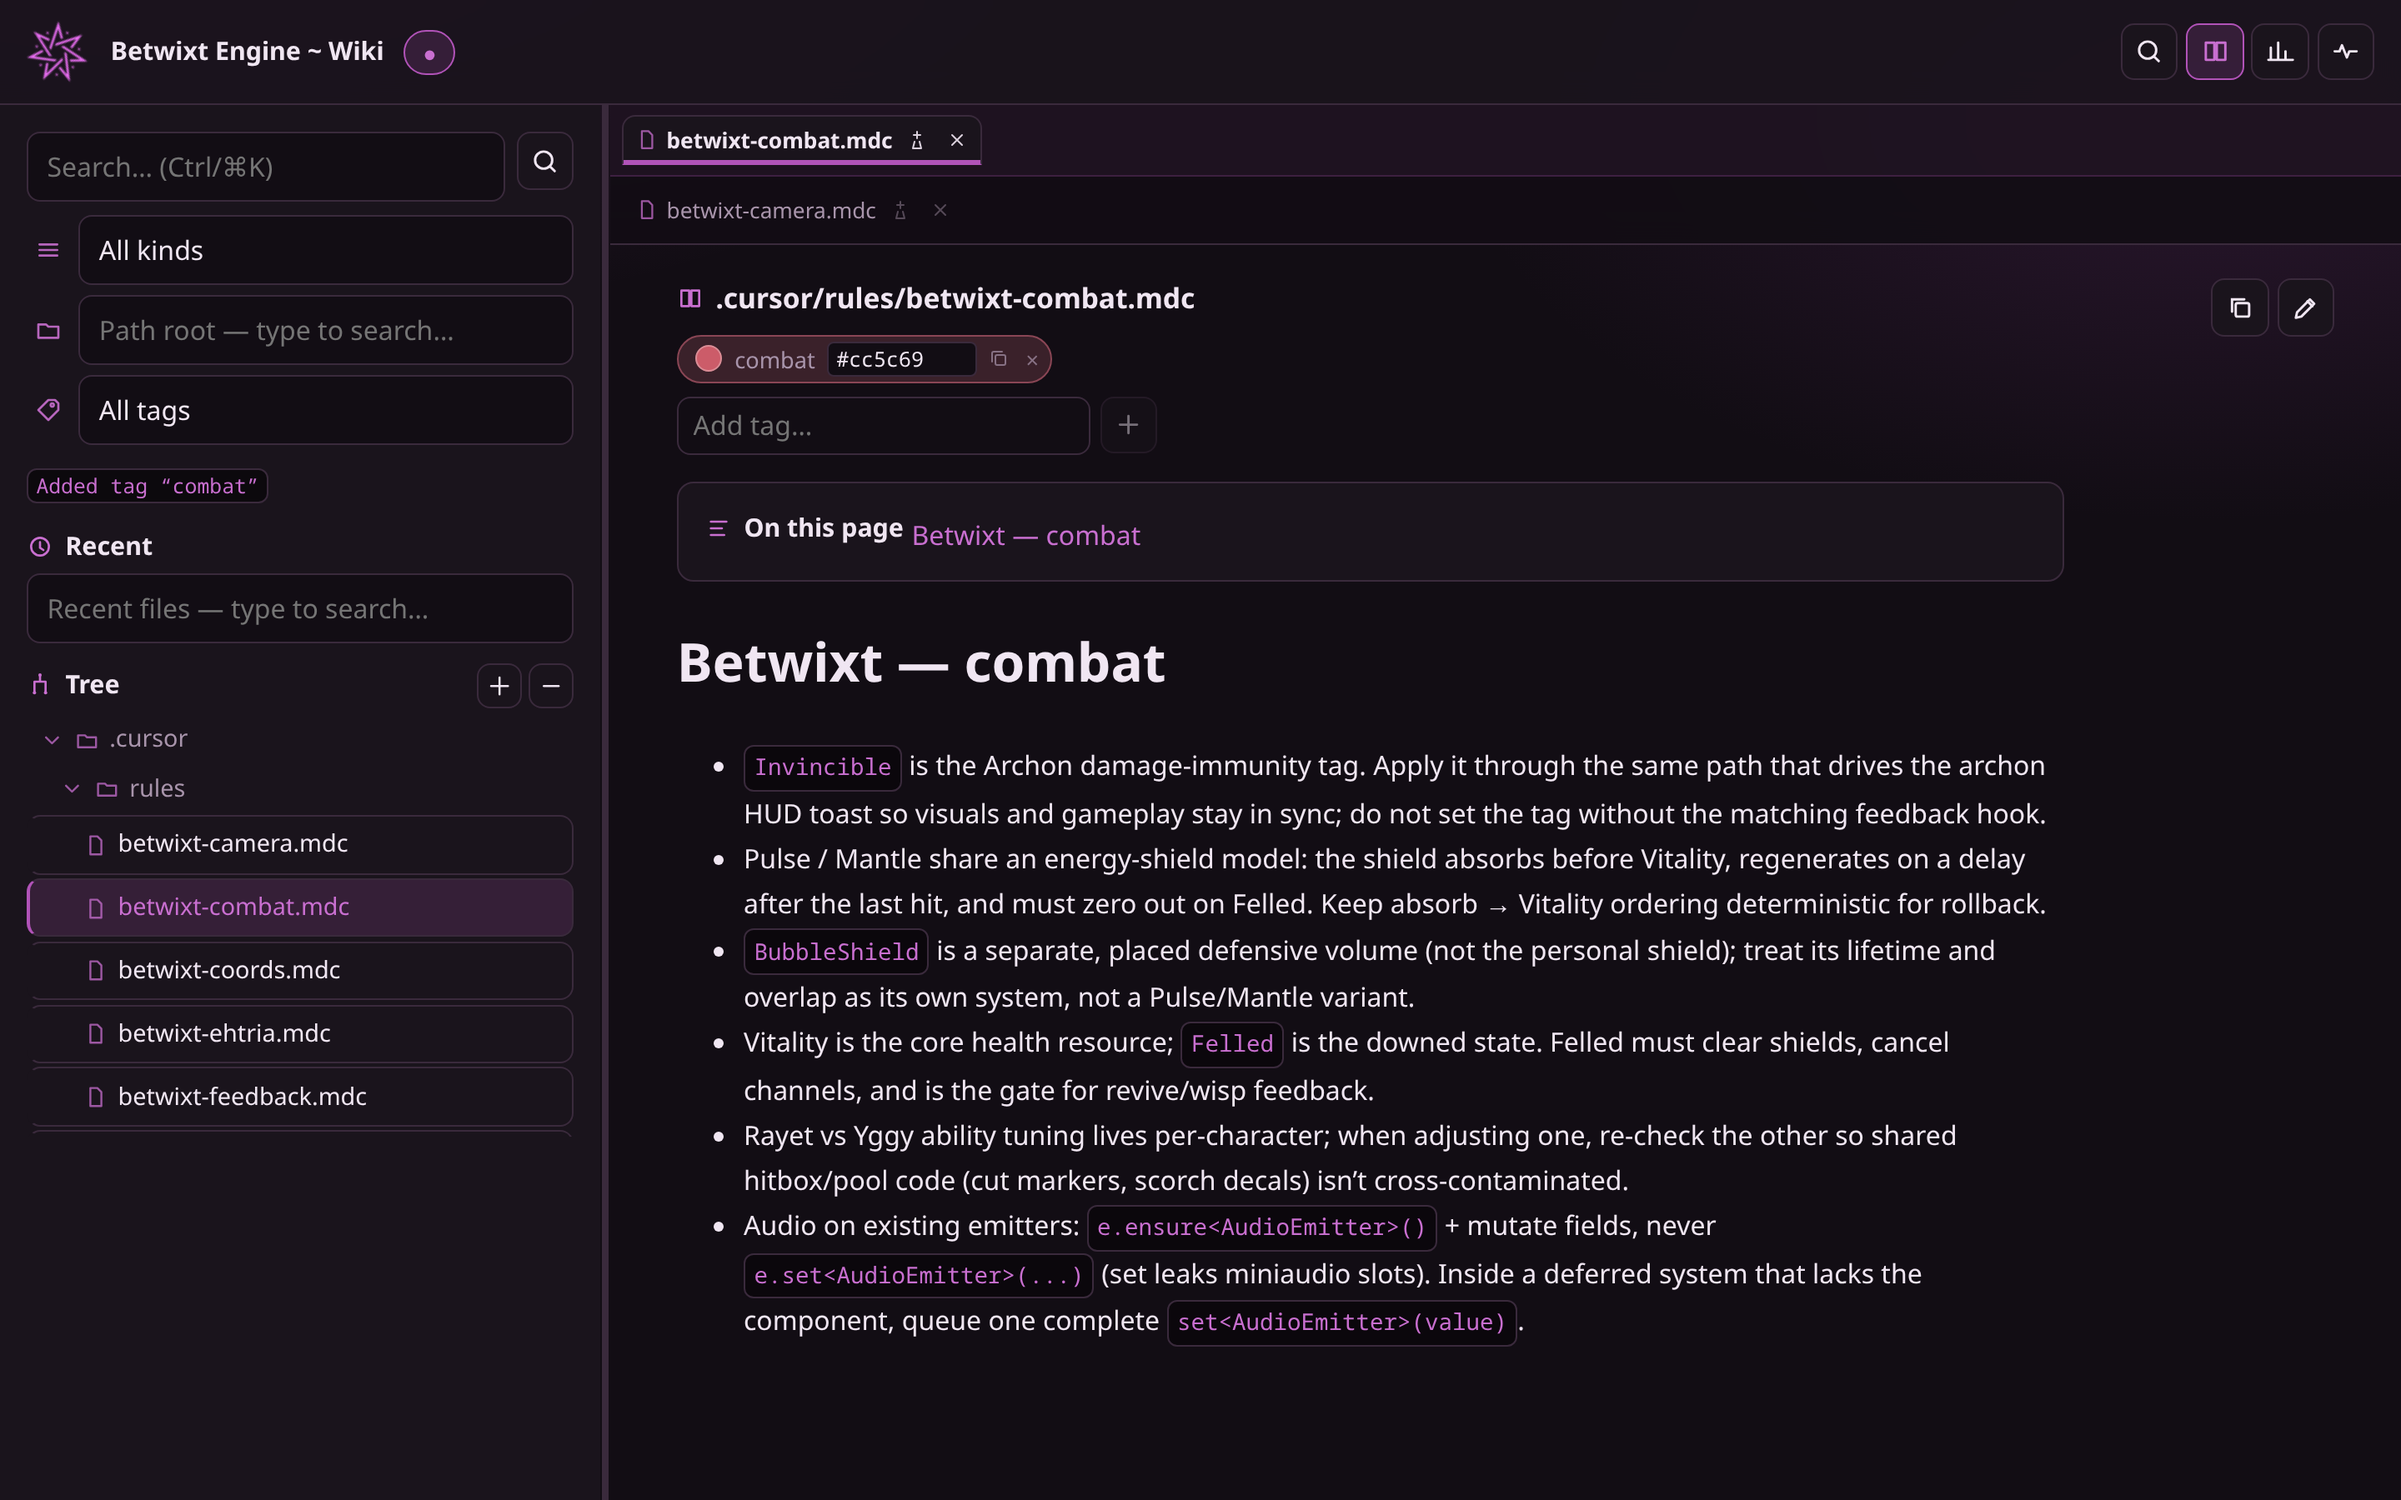
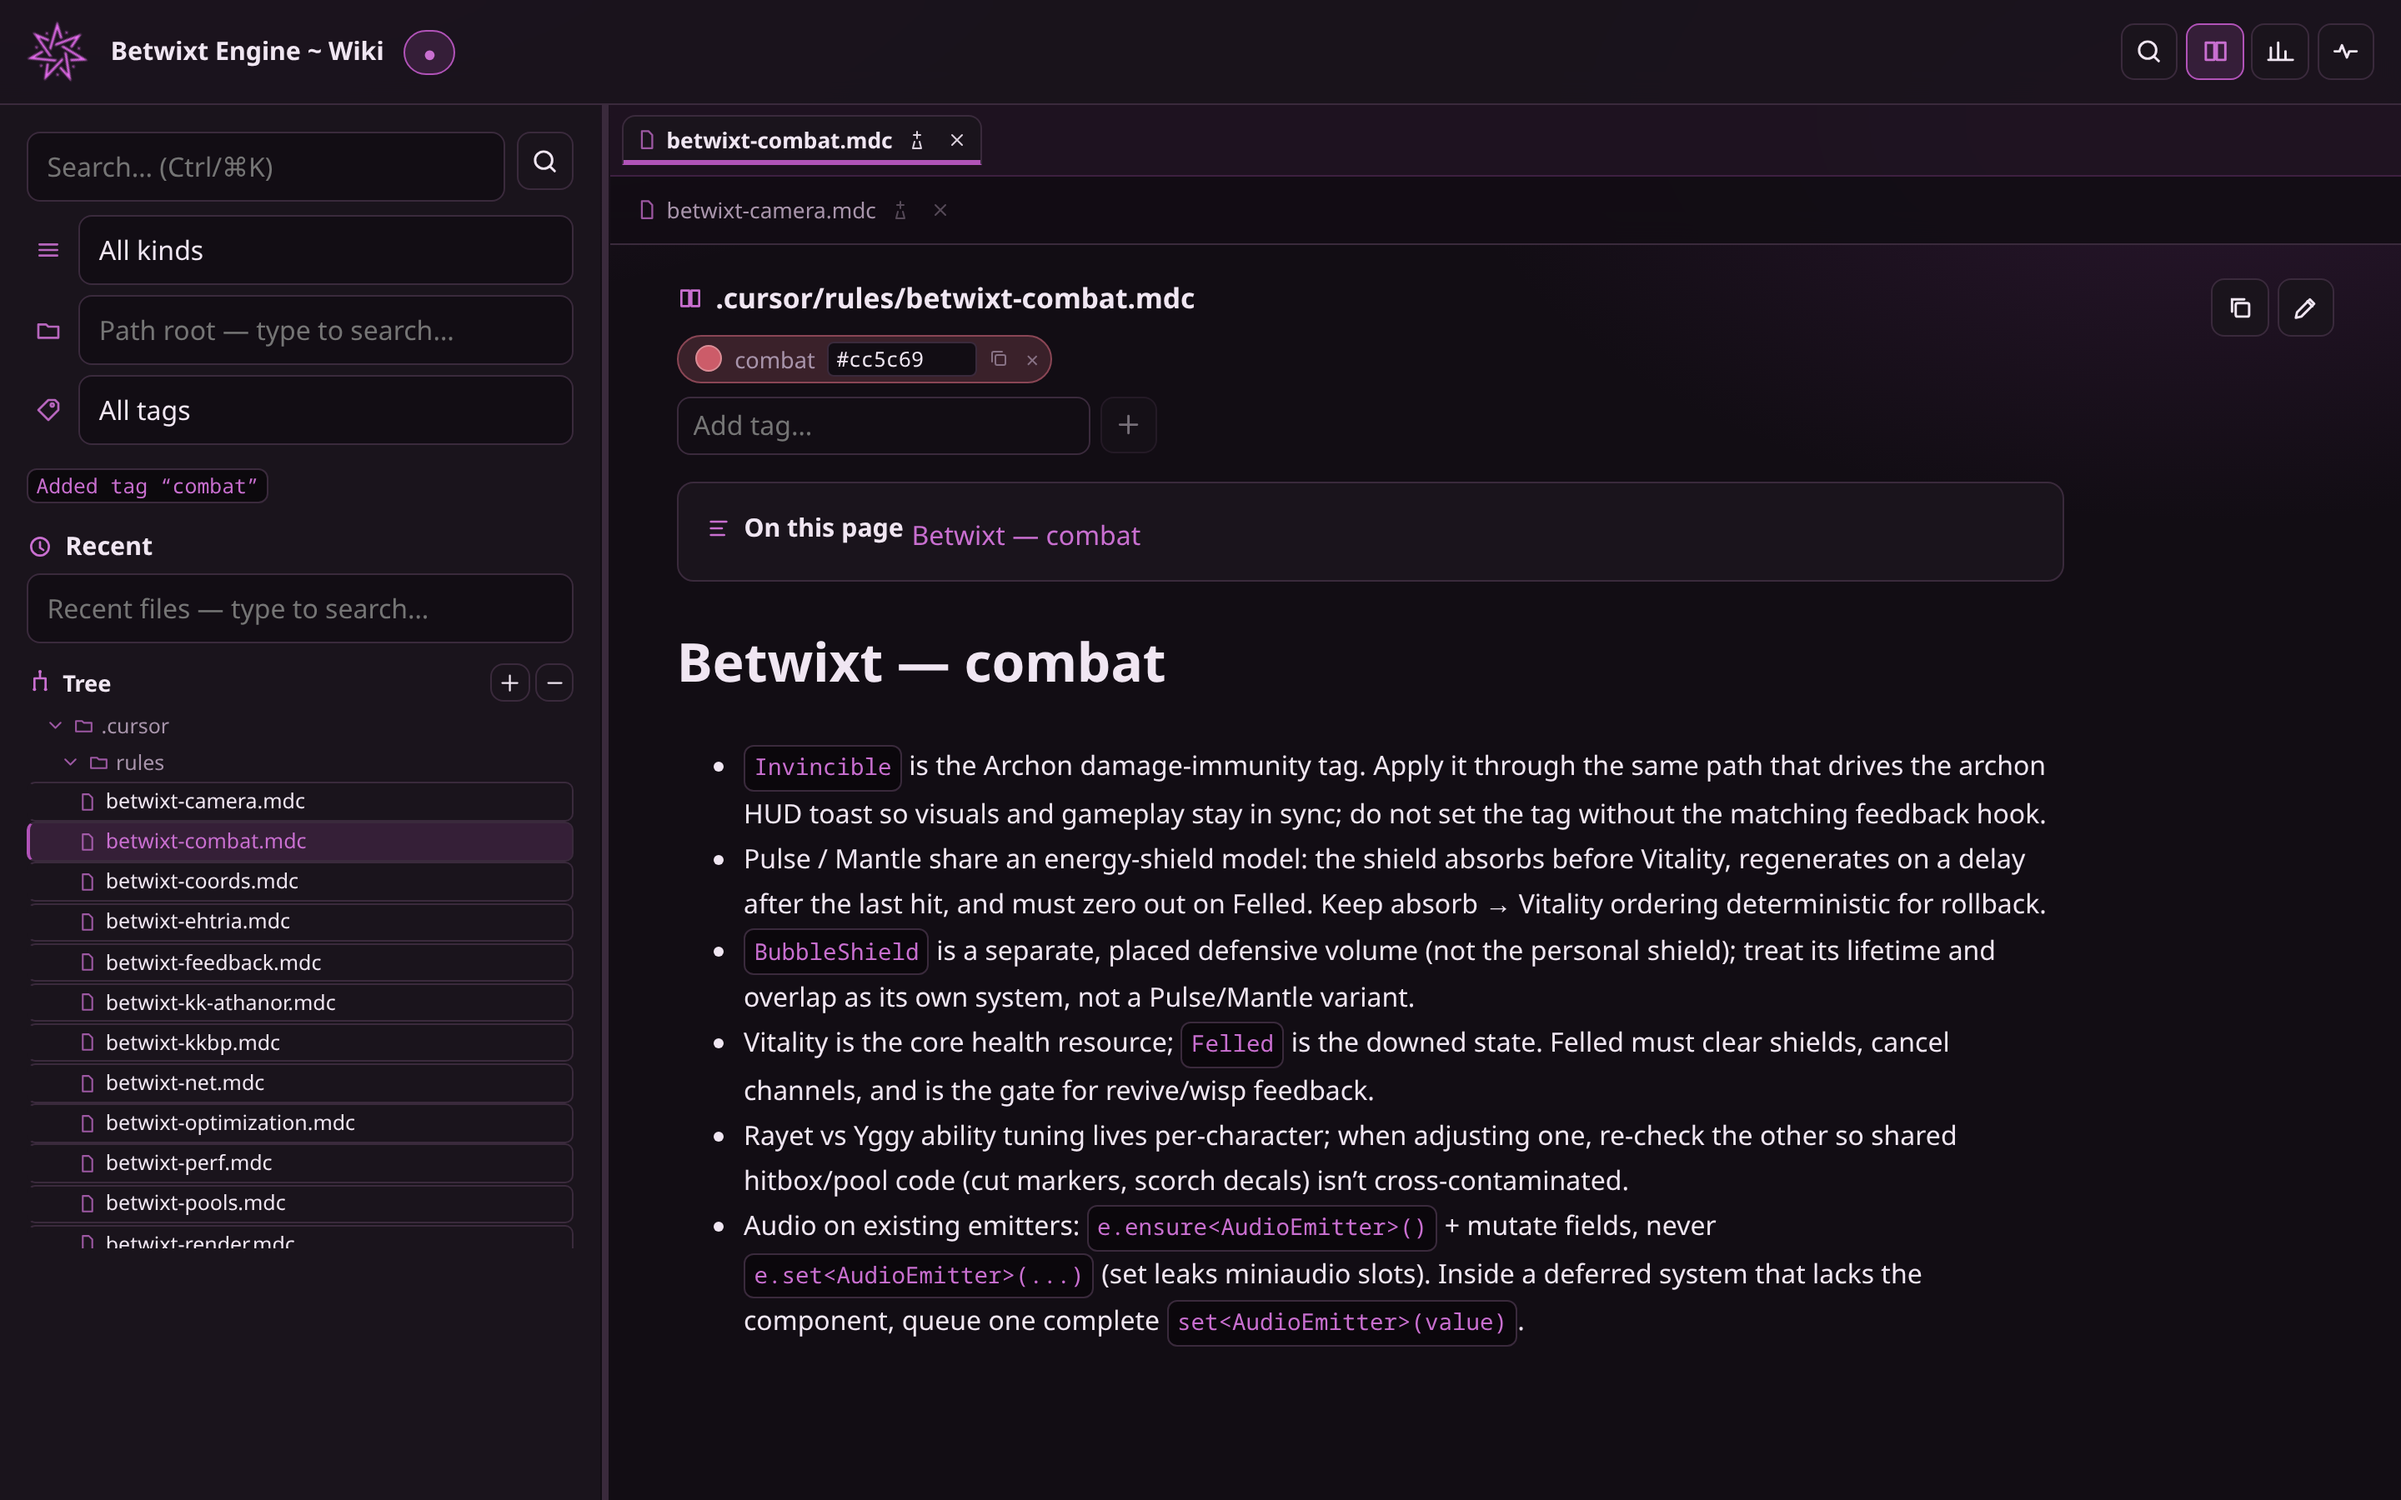
Fix wiki Tree clip and compact rows; refresh README shots.
Deep folder indent no longer overflows the sidebar, and denser tree chrome matches the regenerated docs screenshots.

Changed region(s): [[0.0, 0.4356, 0.25, 0.84], [0.1875, 0.4356, 0.2188, 0.4667], [0.0, 0.0311, 0.0312, 0.0622]]

diff --git a/wiki/src/App.svelte b/wiki/src/App.svelte
@@ -1539,10 +1539,11 @@
           <button
             class="tree-item"
             class:active={pagePath === node.path}
-            style={`padding-left:${0.5 + depth * 0.75}rem`}
+            style={`--depth:${depth}`}
             title={node.path}
             onclick={() => openPath(node.path!)}
           >
+            <span class="tree-indent" aria-hidden="true"></span>
             <svg class="leaf" viewBox="0 0 24 24" aria-hidden="true"
               ><path
                 d="M7 3h7l4 4v14H7z"
@@ -1552,14 +1553,14 @@
                 stroke-linejoin="round"
               /></svg
             >
-            {node.name}
+            <span class="tree-label">{node.name}</span>
           </button>
         {:else if dirKey}
           <button
             type="button"
             class="tree-dir"
             class:collapsed={expanded === false}
-            style={`padding-left:${0.5 + depth * 0.75}rem`}
+            style={`--depth:${depth}`}
             title={expanded
               ? `Collapse ${dirKey}`
               : `Expand ${dirKey}`}
@@ -1567,6 +1568,7 @@
             aria-label={`${expanded ? 'Collapse' : 'Expand'} folder ${node.name}`}
             onclick={() => toggleDir(dirKey)}
           >
+            <span class="tree-indent" aria-hidden="true"></span>
             <svg class="chevron" viewBox="0 0 24 24" aria-hidden="true"
               ><path
                 d="M9 6l6 6-6 6"
@@ -1586,7 +1588,7 @@
                 stroke-linejoin="round"
               /></svg
             >
-            {node.name}
+            <span class="tree-label">{node.name}</span>
           </button>
         {/if}
       {/each}
@@ -2806,7 +2808,6 @@
   }
   .icon-btn,
   .hits button,
-  .tree-item,
   .backlinks button,
   .toc button {
     border: 1px solid var(--border);
@@ -2854,7 +2855,6 @@
   }
   .icon-btn:active:not(:disabled),
   .hits button:active,
-  .tree-item:active,
   .backlinks button:active,
   .toc button:active {
     transform: translateY(0.15em);
@@ -3160,48 +3160,71 @@
   .tree {
     display: flex;
     flex-direction: column;
-    gap: 0.15rem;
-    max-height: 28vh;
-    overflow: auto;
-    margin-bottom: 1rem;
+    gap: 0.05rem;
+    max-height: 36vh;
+    overflow-x: hidden;
+    overflow-y: auto;
+    margin-bottom: 0.65rem;
+    min-width: 0;
   }
   .tree-head {
     display: flex;
     align-items: center;
     justify-content: space-between;
-    gap: 0.4rem;
-    margin: 0.35rem 0 0.35rem;
+    gap: 0.35rem;
+    margin: 0.2rem 0 0.25rem;
   }
   .tree-head .section-title {
     margin: 0;
     min-width: 0;
+    font-size: 0.85rem;
+    gap: 0.35rem;
   }
   .tree-actions {
     display: flex;
-    gap: 0.25rem;
+    gap: 0.2rem;
     flex: 0 0 auto;
   }
   .tree-action {
-    width: 1.7rem;
-    height: 1.7rem;
+    width: 1.45rem;
+    height: 1.45rem;
   }
   .tree-action svg {
-    width: 0.95rem;
-    height: 0.95rem;
+    width: 0.85rem;
+    height: 0.85rem;
   }
   .tree-item,
   .tree-dir {
     display: flex;
     align-items: center;
-    gap: 0.4rem;
+    gap: 0.28rem;
     text-align: left;
-    font-size: 0.9rem;
+    font-size: 0.78rem;
+    line-height: 1.25;
+    width: 100%;
+    min-width: 0;
+    max-width: 100%;
+    box-sizing: border-box;
+    padding: 0.18rem 0.4rem;
+    border-radius: 5px;
+  }
+  .tree-indent {
+    flex: 0 0 calc(var(--depth, 0) * 0.55rem);
+    width: calc(var(--depth, 0) * 0.55rem);
+    height: 1px;
+  }
+  .tree-label {
+    min-width: 0;
+    flex: 1 1 auto;
+    overflow: hidden;
+    text-overflow: ellipsis;
+    white-space: nowrap;
   }
   .tree-item .leaf,
   .tree-dir .leaf,
   .tree-dir .chevron {
-    width: 0.9rem;
-    height: 0.9rem;
+    width: 0.78rem;
+    height: 0.78rem;
     flex: 0 0 auto;
     opacity: 0.75;
     color: var(--accent-strong);
@@ -3214,7 +3237,10 @@
     transform: rotate(0deg);
   }
   .tree-item {
+    border: 1px solid var(--border);
     border-left: 2px solid transparent;
+    background: var(--bg-elevated);
+    cursor: pointer;
   }
   .tree-item.active {
     border-left-color: var(--accent);
@@ -3224,16 +3250,16 @@
   .tree-item:hover {
     background: var(--bg-hover);
     border-left-color: var(--accent);
-    transform: translateX(2px);
+  }
+  .tree-item:active {
+    transform: none;
+    box-shadow: none;
   }
   .tree-dir {
     color: var(--muted);
-    padding: 0.25rem 0.5rem;
     border: 0;
     background: transparent;
-    border-radius: 6px;
     cursor: pointer;
-    width: 100%;
   }
   .tree-dir:hover {
     color: var(--text);

diff --git a/CHANGELOG.md b/CHANGELOG.md
@@ -3,6 +3,16 @@
 All notable changes to wordkeep are documented here. The project follows
 [Semantic Versioning](https://semver.org/).
 
+## [Unreleased]
+
+### Fixed
+
+- Wiki sidebar **Tree** left-edge clipping on deep folders (flex `min-width` +
+  padding indent overflow). Indent uses a fixed-width spacer + label ellipsis;
+  denser row chrome. Regenerated `docs/wiki-*.png` / `docs/dashboard.png`.
+- `wiki.sh` restarts when `/api/dashboard` is missing (stale binary) so the GUI
+  Dashboard tab does not hit empty JSON parse errors.
+
 ## [0.3.0] - 2026-08-04
 
 Telemetry truthfulness, `diff_map` hot-path fix, shared Markdown knowledge
